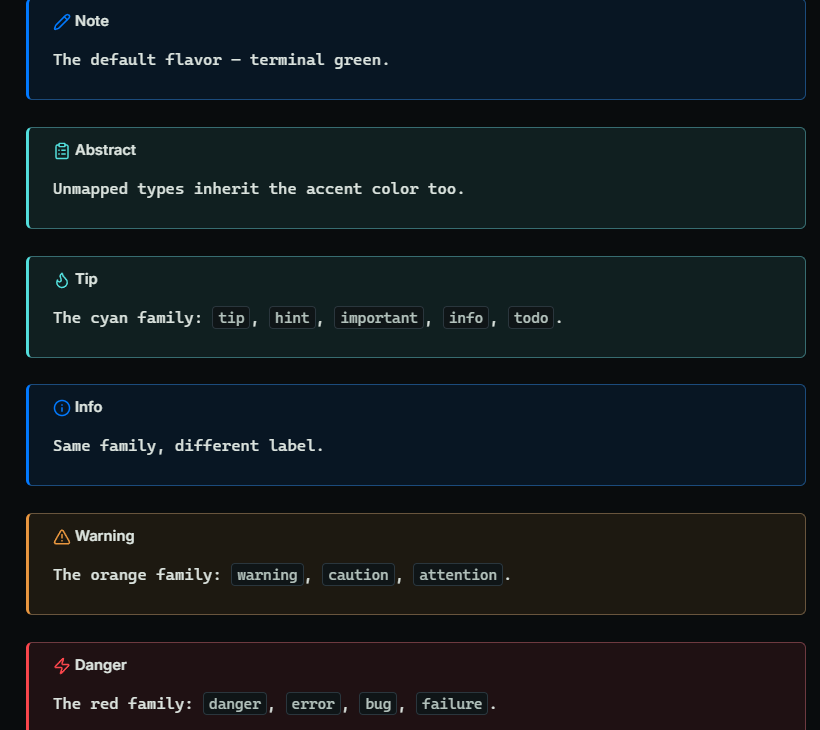
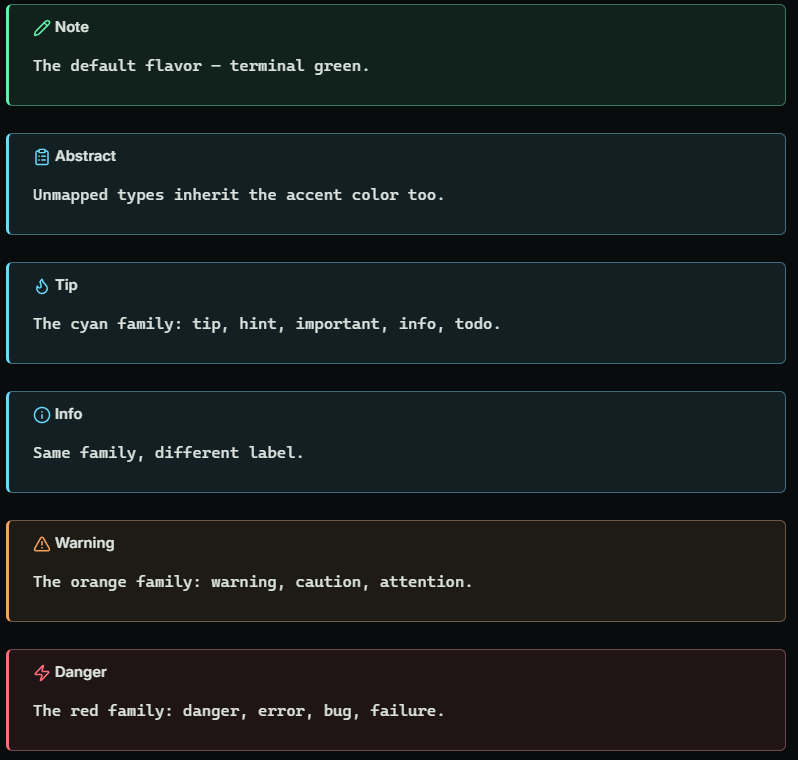
Update callout screenshots to the theme-matched palette

diff --git a/docs/index.html b/docs/index.html
@@ -196,8 +196,8 @@
       <div class="gallery">
         <div class="tile wide">
           <div class="frame" data-zoom>
-            <img class="is-dark" src="assets/feature-callouts.png" width="820" height="730" decoding="async" loading="lazy" alt="The full callout family: note, abstract, tip, info, warning, danger — each tinted from its own color">
-            <img class="is-light" src="assets/feature-callouts-light.png" width="820" height="730" decoding="async" loading="lazy" alt="The full callout family in light mode">
+            <img class="is-dark" src="assets/feature-callouts.png" width="798" height="760" decoding="async" loading="lazy" alt="The full callout family: note, abstract, tip, info, warning, danger — each tinted from its own color">
+            <img class="is-light" src="assets/feature-callouts-light.png" width="798" height="760" decoding="async" loading="lazy" alt="The full callout family in light mode">
           </div>
           <div class="cap">
             <div class="name">Callouts</div>